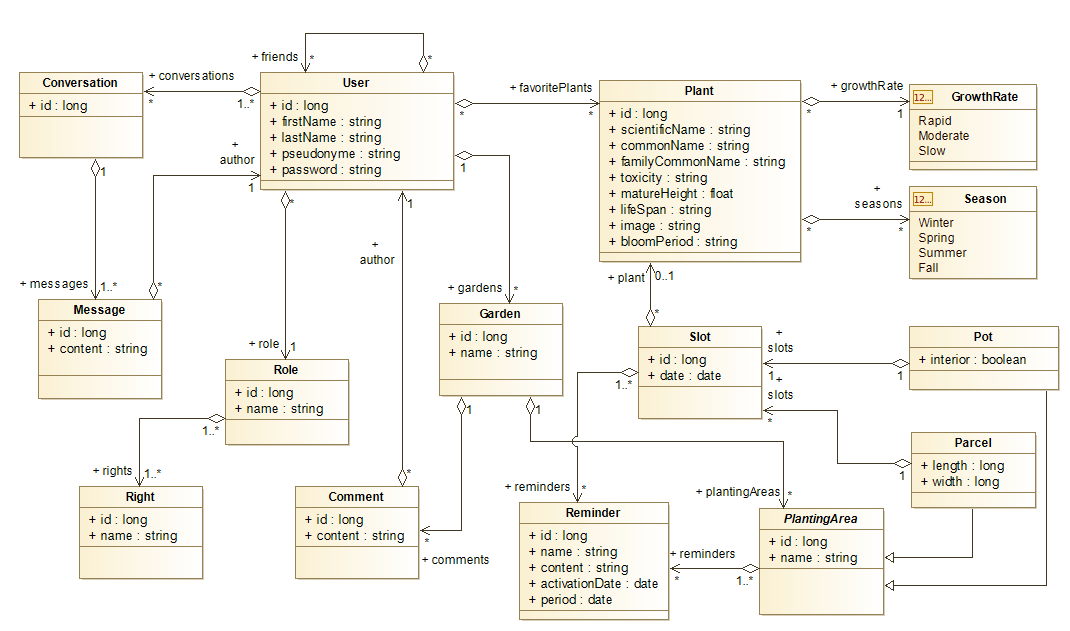
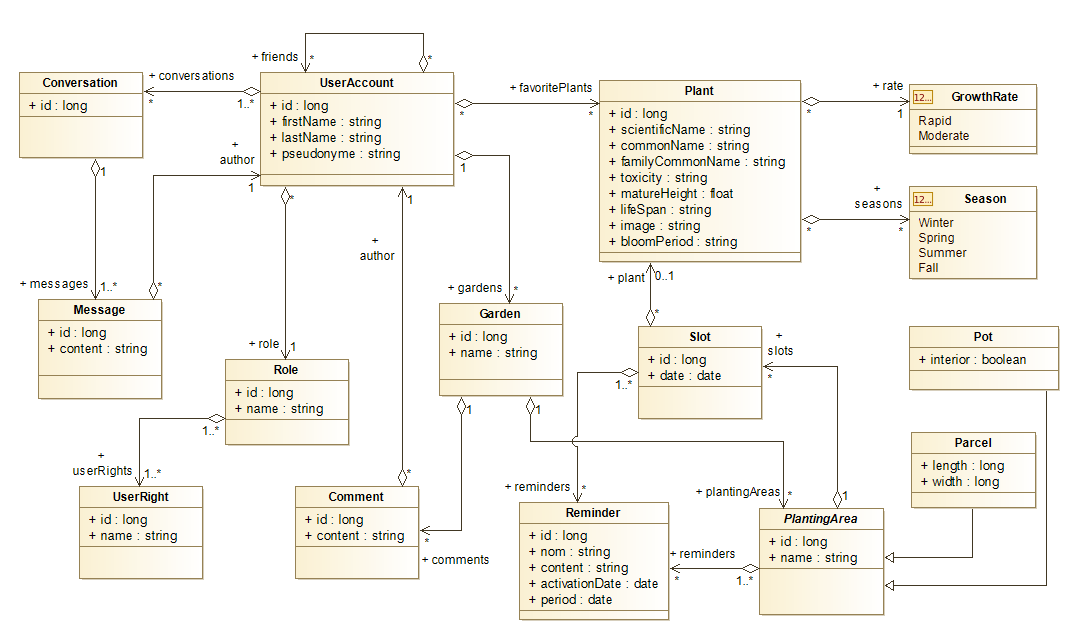
back functional, access via localhost:8080/happygarden/api, creation et save in DB working, removed application.properties and updated gitignore

diff --git a/HappyGarden_java/src/main/java/diginamic/happygarden/controller/UserAccountController.java b/HappyGarden_java/src/main/java/diginamic/happygarden/controller/UserAccountController.java
@@ -1,23 +1,43 @@
 package diginamic.happygarden.controller;
 
+import java.util.List;
+
 import org.springframework.beans.factory.annotation.Autowired;
 import org.springframework.web.bind.annotation.RequestMapping;
 import org.springframework.web.bind.annotation.RequestMethod;
 import org.springframework.web.bind.annotation.RestController;
 
 import diginamic.happygarden.model.UserAccount;
+import diginamic.happygarden.model.UserRight;
+import diginamic.happygarden.model.UserRole;
 import diginamic.happygarden.repository.UserAccountRepository;
+import diginamic.happygarden.repository.UserRightRepository;
+import diginamic.happygarden.repository.UserRoleRepository;
 
 @RestController
 public class UserAccountController {
 	
 	@Autowired
-	private UserAccountRepository userAccRepository;
+	private UserAccountRepository userAccRep;
 	
-	@RequestMapping(value ="/UserAccount/create", method=RequestMethod.GET)
-	public void createUserAccount() {
-		userAccRepository.save(new UserAccount("Jean", "Jade", "CoucouCestMoi"));
+	@Autowired
+	private UserRightRepository userRightRep;
+	
+	@Autowired
+	private UserRoleRepository userRoleRep;
+	
+	@RequestMapping(value ="/UserAccount/", method=RequestMethod.GET)
+	public List<UserAccount> createUserAccount() {
+		UserRight userRight = new UserRight("basic");
+		userRightRep.save(userRight);
+		UserRole userRole = new UserRole("Utilisateur", userRight);
+		userRoleRep.save(userRole);
+		UserAccount userAcc = new UserAccount("Jean", "Jade", "CoucouCestMoi",userRole);
+		userAcc.setPseudonyme("coco");
+		userAcc.setPassword("password");
+		userAccRep.save(userAcc);
 		System.out.println("c'est bon");
+		return userAccRep.findAll();
 	}
 	
 }

diff --git a/HappyGarden_java/src/main/java/diginamic/happygarden/model/UserAccount.java b/HappyGarden_java/src/main/java/diginamic/happygarden/model/UserAccount.java
@@ -38,7 +38,7 @@ public class UserAccount implements HibernateClass {
 	
 	@NotNull
 	@ManyToOne
-	private Role role;
+	private UserRole userRole;
 
 	@ManyToMany
 	@ElementCollection
@@ -67,8 +67,8 @@ public class UserAccount implements HibernateClass {
 		this.firstName = firstName;
 		this.lastName = lastName;
 		this.pseudonyme = pseudonyme;
-		/*/!\ DEFINE A ROLE BY DEFAULT (basic user)!!!!!!!! */
-		// role = new Role(????);
+		/*/!\ DEFINE A userRole BY DEFAULT (basic user)!!!!!!!! */
+		// userRole = new userRole(????);
 		this.conversations = new ArrayList<Conversation>();
 		this.friends = new ArrayList<UserAccount>();
 		this.favoritePlants = new ArrayList<Plant>();
@@ -76,12 +76,12 @@ public class UserAccount implements HibernateClass {
 		
 	}
 
-	public UserAccount(String firstName, String lastName, String pseudonyme, Role role) {
+	public UserAccount(String firstName, String lastName, String pseudonyme, UserRole userRole) {
 		super();
 		this.firstName = firstName;
 		this.lastName = lastName;
 		this.pseudonyme = pseudonyme;
-		this.role = role;
+		this.userRole = userRole;
 		this.conversations = new ArrayList<Conversation>();
 		this.friends = new ArrayList<UserAccount>();
 		this.favoritePlants = new ArrayList<Plant>();
@@ -130,12 +130,12 @@ public class UserAccount implements HibernateClass {
 		this.password = password;
 	}
 	
-	public Role getRole() {
-		return role;
+	public UserRole getUserRole() {
+		return userRole;
 	}
 
-	public void setRole(Role role) {
-		this.role = role;
+	public void setUserRole(UserRole userRole) {
+		this.userRole = userRole;
 	}
 
 	public List<Conversation> getConversations() {

diff --git a/HappyGarden_java/src/main/java/diginamic/happygarden/model/UserRole.java b/HappyGarden_java/src/main/java/diginamic/happygarden/model/UserRole.java
@@ -16,7 +16,7 @@ import javax.validation.constraints.NotNull;
  * functionalities of the application
  **/
 @Entity
-public class Role implements HibernateClass{
+public class UserRole implements HibernateClass {
 
 	@Id
 	@GeneratedValue(strategy = GenerationType.IDENTITY)
@@ -31,21 +31,30 @@ public class Role implements HibernateClass{
 
 	/* Constructors */
 
-	public Role() {
+	public UserRole() {
 		super();
 		this.userRights = new ArrayList<UserRight>();
 	}
 
-	public Role(String name) {
+	public UserRole(String name) {
 		super();
 		this.name = name;
 		this.userRights = new ArrayList<UserRight>();
 	}
 
-	public Role(String name, List<UserRight> userRights) {
+	public UserRole(String name, List<UserRight> userRights) {
 		super();
 		this.name = name;
 		this.userRights = userRights;
+	}
+
+	public UserRole(String name, UserRight... userRights) {
+		super();
+		this.name = name;
+		this.userRights = new ArrayList<UserRight>();
+		for (UserRight userRight : userRights) {
+			this.userRights.add(userRight);
+		}
 	}
 
 	/* Getters Setters */

diff --git a/HappyGarden_java/src/main/java/diginamic/happygarden/model/PlantingArea.java b/HappyGarden_java/src/main/java/diginamic/happygarden/model/PlantingArea.java
@@ -8,14 +8,11 @@ import javax.persistence.Entity;
 import javax.persistence.GeneratedValue;
 import javax.persistence.GenerationType;
 import javax.persistence.Id;
-import javax.persistence.Inheritance;
-import javax.persistence.InheritanceType;
 import javax.persistence.OneToMany;
 import javax.validation.constraints.NotBlank;
 
 /** Abstract Class for Parcel and Pot **/
 @Entity
-@Inheritance(strategy = InheritanceType.JOINED)
 public abstract class PlantingArea implements HibernateClass, ReminderManager, SlotManager{
 
 	@Id

diff --git a/HappyGarden_java/src/main/java/diginamic/happygarden/repository/PlantingAreaRepository.java b/HappyGarden_java/src/main/java/diginamic/happygarden/repository/PlantingAreaRepository.java
@@ -1,0 +1,9 @@
+package diginamic.happygarden.repository;
+
+import org.springframework.data.jpa.repository.JpaRepository;
+
+import diginamic.happygarden.model.PlantingArea;
+
+public interface PlantingAreaRepository extends JpaRepository<PlantingArea, Long> {
+
+}

diff --git a/HappyGarden_java/src/main/java/diginamic/happygarden/repository/ConversationRepository.java b/HappyGarden_java/src/main/java/diginamic/happygarden/repository/ConversationRepository.java
@@ -1,0 +1,9 @@
+package diginamic.happygarden.repository;
+
+import org.springframework.data.jpa.repository.JpaRepository;
+
+import diginamic.happygarden.model.Conversation;
+
+public interface ConversationRepository extends JpaRepository<Conversation, Long>{
+
+}

diff --git a/HappyGarden_java/src/main/java/diginamic/happygarden/repository/UserRightRepository.java b/HappyGarden_java/src/main/java/diginamic/happygarden/repository/UserRightRepository.java
@@ -1,0 +1,9 @@
+package diginamic.happygarden.repository;
+
+import org.springframework.data.jpa.repository.JpaRepository;
+
+import diginamic.happygarden.model.UserRight;
+
+public interface UserRightRepository extends JpaRepository<UserRight, Long> {
+
+}

diff --git a/HappyGarden_java/src/main/java/diginamic/happygarden/repository/UserRoleRepository.java b/HappyGarden_java/src/main/java/diginamic/happygarden/repository/UserRoleRepository.java
@@ -1,0 +1,9 @@
+package diginamic.happygarden.repository;
+
+import org.springframework.data.jpa.repository.JpaRepository;
+
+import diginamic.happygarden.model.UserRole;
+
+public interface UserRoleRepository extends JpaRepository<UserRole, Long> {
+
+}

diff --git a/HappyGarden_java/src/main/java/diginamic/happygarden/repository/ReminderRepository.java b/HappyGarden_java/src/main/java/diginamic/happygarden/repository/ReminderRepository.java
@@ -1,0 +1,9 @@
+package diginamic.happygarden.repository;
+
+import org.springframework.data.jpa.repository.JpaRepository;
+
+import diginamic.happygarden.model.Reminder;
+
+public interface ReminderRepository extends JpaRepository<Reminder, Long>{
+
+}

diff --git a/HappyGarden_java/src/main/java/diginamic/happygarden/repository/MessageRepository.java b/HappyGarden_java/src/main/java/diginamic/happygarden/repository/MessageRepository.java
@@ -1,0 +1,9 @@
+package diginamic.happygarden.repository;
+
+import org.springframework.data.jpa.repository.JpaRepository;
+
+import diginamic.happygarden.model.Message;
+
+public interface MessageRepository extends JpaRepository<Message, Long>{
+
+}

diff --git a/HappyGarden_java/src/main/java/diginamic/happygarden/repository/CommentRepository.java b/HappyGarden_java/src/main/java/diginamic/happygarden/repository/CommentRepository.java
@@ -1,0 +1,8 @@
+package diginamic.happygarden.repository;
+
+import org.springframework.data.jpa.repository.JpaRepository;
+
+import diginamic.happygarden.model.Comment;
+
+public interface CommentRepository extends JpaRepository<Comment, Long>{
+}

diff --git a/HappyGarden_java/src/main/java/diginamic/happygarden/repository/GardenRepository.java b/HappyGarden_java/src/main/java/diginamic/happygarden/repository/GardenRepository.java
@@ -1,0 +1,9 @@
+package diginamic.happygarden.repository;
+
+import org.springframework.data.jpa.repository.JpaRepository;
+
+import diginamic.happygarden.model.Garden;
+
+public interface GardenRepository extends JpaRepository<Garden, Long>{
+
+}
